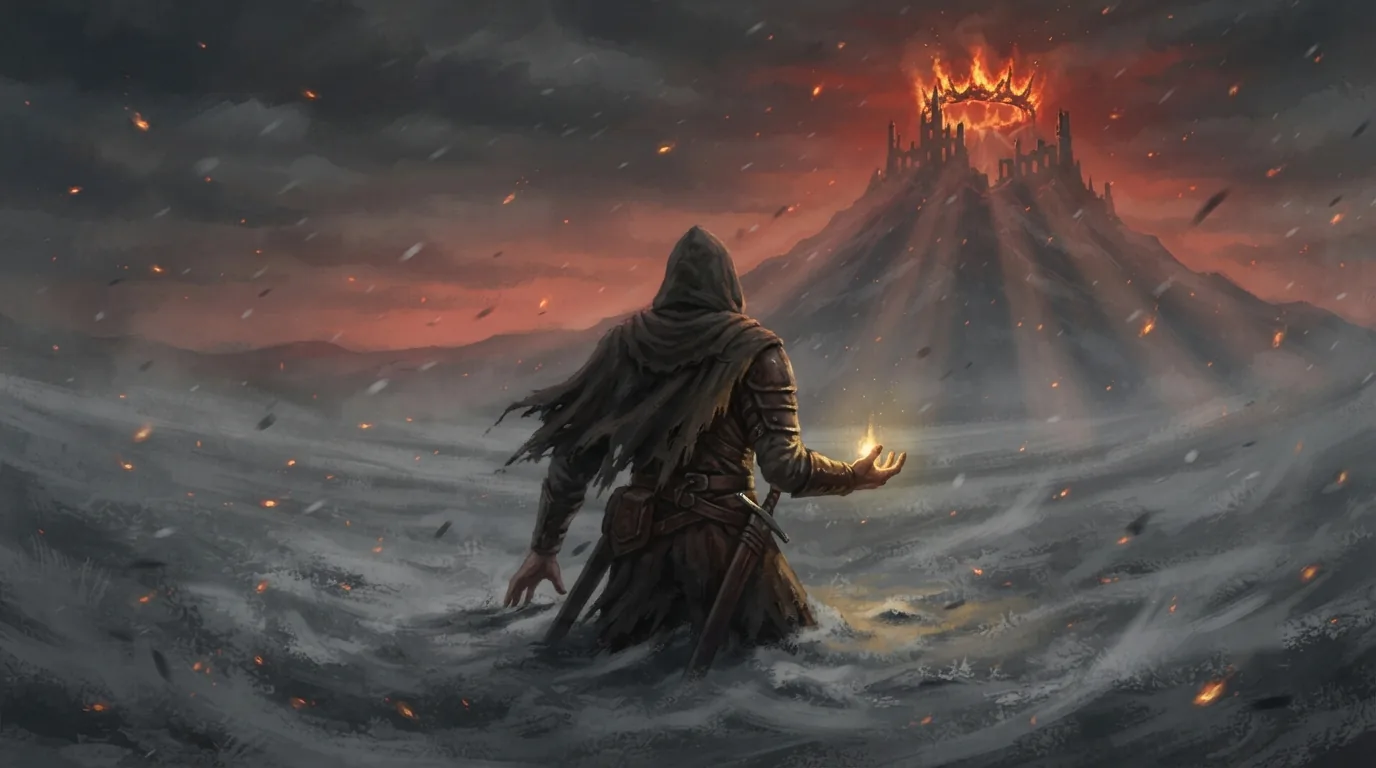
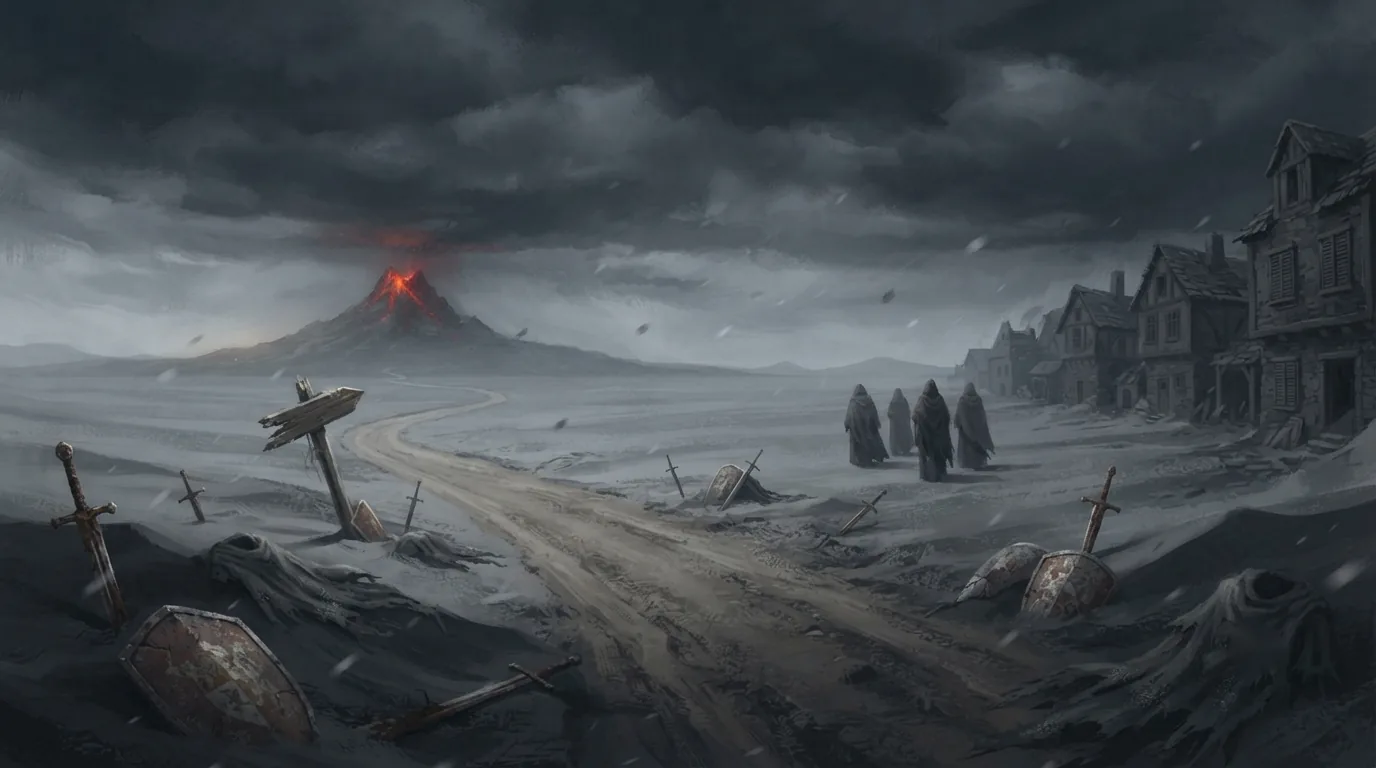
v797: 프롤로그에 7번 슬라이드 추가(비어 버린 길) — 자막 「그러나 왕좌에서 돌아온 자는 없었다」 + 절망 문장, 우→좌 이동. 기존 7번은 8번으로
Claude-Session: https://claude.ai/code/session_0169ibTLpq3SeLBzYVVBjBYn

diff --git a/index.html b/index.html
@@ -8097,7 +8097,7 @@ function verShow(j){if(verNote)return;const d=document.createElement('div');d.id
   verNote={t:setInterval(()=>{n--;if(n<=0)verApply();else up()},1000)}}
 async function verCheck(){if(verNote)return;try{const r=await fetch('version.json?_='+Date.now(),{cache:'no-store'});if(!r.ok)return;const j=await r.json();if(j&&/^v\d+$/.test(j.v||'')&&+j.v.slice(1)>+APP_VER.slice(1))verShow(j)}catch(e){}}
 setTimeout(verCheck,4000);setInterval(verCheck,60000);document.addEventListener('visibilitychange',()=>{if(!document.hidden)verCheck()});
-const APP_VER='v796';const XIC='<svg class="xic" viewBox="0 0 24 24" aria-hidden="true"><path d="M9 9.5 5 13.5l4 4M5 13.5h10a4 4 0 0 0 0-8h-2" fill="none" stroke="currentColor" stroke-width="2.4" stroke-linecap="round" stroke-linejoin="round"/></svg>';/* v594: 나가기 아이콘을 이모지 대신 SVG로 — 기기마다 파란 이모지 상자로 그려지던 문제 */try{const vt=document.getElementById('verTag');if(vt)vt.textContent=APP_VER}catch(e){}/* v158: 제목 화면 버전 표기 */
+const APP_VER='v797';const XIC='<svg class="xic" viewBox="0 0 24 24" aria-hidden="true"><path d="M9 9.5 5 13.5l4 4M5 13.5h10a4 4 0 0 0 0-8h-2" fill="none" stroke="currentColor" stroke-width="2.4" stroke-linecap="round" stroke-linejoin="round"/></svg>';/* v594: 나가기 아이콘을 이모지 대신 SVG로 — 기기마다 파란 이모지 상자로 그려지던 문제 */try{const vt=document.getElementById('verTag');if(vt)vt.textContent=APP_VER}catch(e){}/* v158: 제목 화면 버전 표기 */
 /* v477: 새 버전 알림·강제 재시작 제거 — 플레이 중엔 끊기지 않고, 앱을 직접 껐다 켜면 새 버전 적용 */
 function releaseAll(){for(const k in input.held)input.held[k]=false;input.x=input.z=0;sp=null;knob.hidden=true;document.querySelectorAll('.act').forEach(b=>b.classList.remove('down'))}
 
@@ -8431,11 +8431,12 @@ const PRL=[/* v792: c0 = 그림 가로 위치(0~1) · d = 시선 이동 방향(+
   {c0:.48,d:1,fx:'fire',c:['불의 용, 아쉬카르.','루멘은 단 하룻밤 만에\n불길 속으로 무너졌다.']},
   {c0:.54,d:1,fx:'throne',c:['용은 빛의 왕좌를 부수고\n그 위에 앉았다.','빛은 꺼지고,\n꺼지지 않는 불길만이 남았다.']},
   {c0:.55,d:1,fx:'ash',c:['잿불은 루멘하르를 넘어\n온 세상에 내렸다.','들판은 시들고,\n한낮에도 하늘이 어두워졌다.']},
-  {c0:.52,d:-1,fx:'ash2',c:['꺼져 가는 빛은 마지막 목소리로 불렀다.\n「불씨를 지닌 자여, 왕좌로 오라.」','부름을 들은 이들이\n사방에서 모여들었다.','그러나 왕좌에서\n돌아온 자는 없었다.']},
+  {c0:.52,d:-1,fx:'ash2',c:['꺼져 가는 빛은 마지막 목소리로 불렀다.\n「불씨를 지닌 자여, 왕좌로 오라.」','부름을 들은 이들이\n사방에서 모여들었다.']},
+  {c0:.5,d:-1,fx:'empty',c:['그러나 왕좌에서\n돌아온 자는 없었다.','사람들은 그들이 모두 불에 삼켜졌다 믿었고,\n더는 누구도 왕좌로 향하지 않았다.']},
   {c0:.53,d:1,fx:'hero',c:['그리고 지금,\n또 한 사람이 재 속에서 일어선다.']}];
 const PRL_V=.03,PRL_Z=[1,1.06];/* 이동 속도: 초당 그림 높이의 3% · 확대: 장면 동안 1 → 1.06 */
 /* 입자: m 금빛 티끌 · e 불티 · a 재 (장면마다 목표 개수, 다 탄 입자가 새 장면 비율로 다시 생겨 자연스럽게 바뀜) */
-const PRL_FX={snow:{m:0,e:0,a:0,s:150},fall:{m:0,e:60,a:20,f:1},note:{m:6,e:0,a:0},mote:{m:40,e:0,a:0},night:{m:0,e:14,a:20},fire:{m:0,e:110,a:30},throne:{m:0,e:70,a:20},ash:{m:0,e:0,a:130},ash2:{m:0,e:10,a:80},hero:{m:0,e:0,a:90}};
+const PRL_FX={snow:{m:0,e:0,a:0,s:150},fall:{m:0,e:60,a:20,f:1},note:{m:6,e:0,a:0},mote:{m:40,e:0,a:0},night:{m:0,e:14,a:20},fire:{m:0,e:110,a:30},throne:{m:0,e:70,a:20},ash:{m:0,e:0,a:130},ash2:{m:0,e:10,a:80},empty:{m:0,e:0,a:110},hero:{m:0,e:0,a:90}};
 const PRO=window.PRO={on:0};
 const prlDur=t=>Math.max(4.4,2.6+t.replace(/\s/g,'').length*.12);/* 자막 한 줄이 떠 있는 시간 */
 function prologPlay(cb,set){if(PRO.on)return;const el=$('prolog'),Ls=[...el.querySelectorAll('.plL')],cv=$('plFx');PRO.S=set&&set.sc||PRL;el.querySelector('.plTag').textContent=set&&set.tag||'Prologue';/* v785: 다른 그림 슬라이드(장 이야기)도 같은 연출로 */
